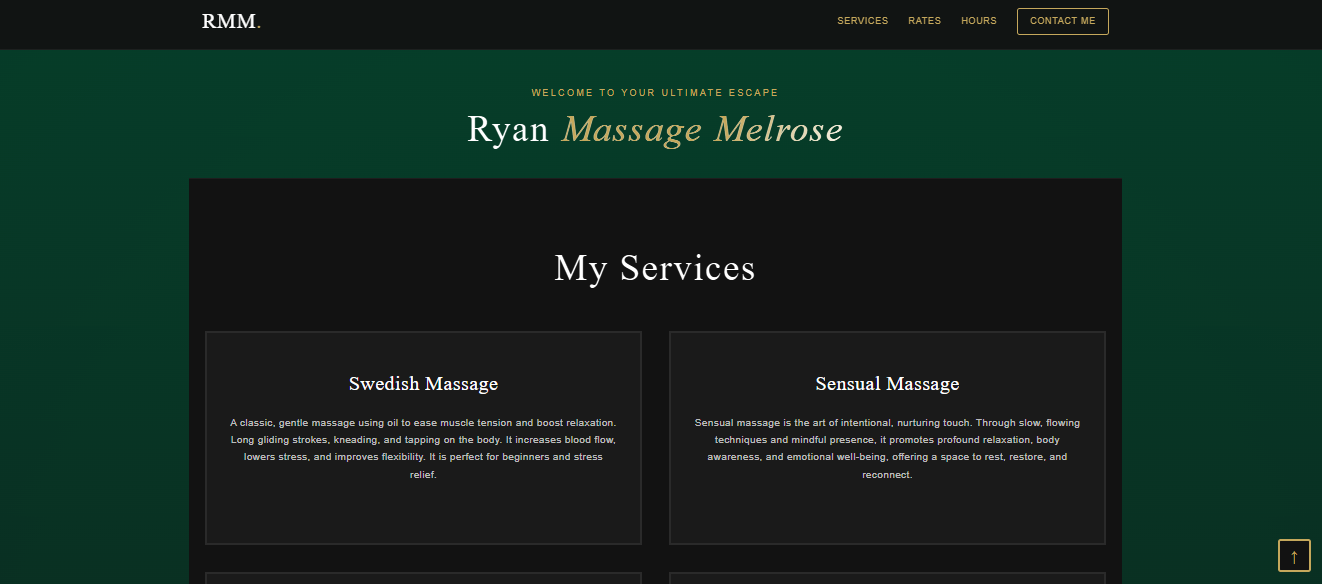
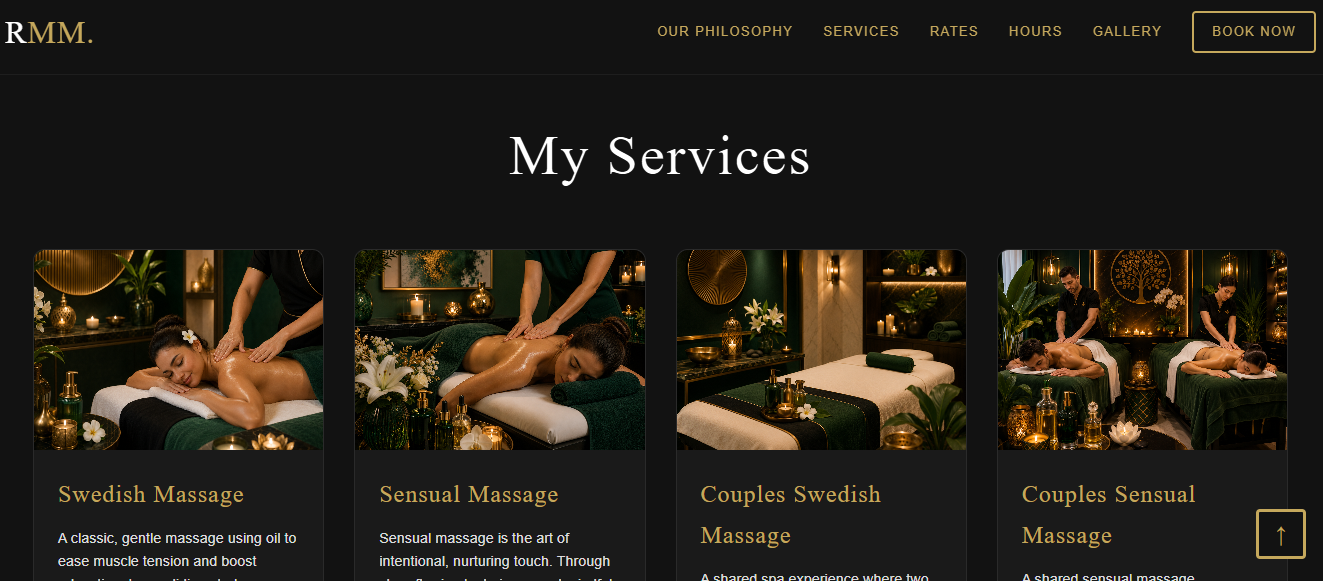
layout

diff --git a/index.html b/index.html
@@ -11,30 +11,141 @@
         * { box-sizing: border-box; -webkit-tap-highlight-color: transparent; }
         html { scroll-behavior: smooth; }
         
-        /* Mobile Specific Overrides to pass on top of external sheet links */
+         /* --- FIXED 3 COLUMNS x 2 ROWS GRID MATRIX --- */
+.pricing {
+    display: grid;
+    /* Forces exactly 3 equal-width columns on desktop screens */
+    grid-template-columns: repeat(3, 1fr); 
+    /* Explicitly defines exactly 2 rows of equal height */
+    grid-template-rows: repeat(2, 1fr);     
+    gap: 30px;
+    max-width: 1200px;
+    margin: 40px auto;
+    padding: 20px;
+    width: 100%;
+    box-sizing: border-box;
+}
+
+/* Ensure card sizing elements scale symmetrically in the matrix */
+.card {
+    width: 100% !important;
+    height: 100% !important;
+    display: flex;
+    flex-direction: column;
+    justify-content: space-between;
+    box-sizing: border-box;
+}
+
+/* --- MOBILE RESPONSIVE OVERRIDES --- */
+@media (max-width: 992px) {
+    .pricing {
+        /* Drops down to 2 columns on tablets/medium screens */
+        grid-template-columns: repeat(2, 1fr);
+        grid-template-rows: auto; /* Removes strict row limits so it can expand down */
+    }
+}
+
+@media (max-width: 768px) {
+    .pricing {
+        /* Collapses into a single vertical row column on small mobile viewports */
+        grid-template-columns: 1fr;
+        grid-template-rows: auto;
+        gap: 20px;
+    }
+}
+        /* Tiny custom scrollbar adjustments for Webkit engines (Chrome/Safari) */
+        .card ul::-webkit-scrollbar { width: 4px; }
+        .card ul::-webkit-scrollbar-thumb { background: rgba(0, 0, 0, 0.15); border-radius: 4px; }
+
+        .card .btn {
+            width: 100% !important;
+            padding: 10px 0 !important;    /* Compressed button spacing */
+            text-align: center;
+            font-size: 0.85rem !important;
+            margin-top: auto;              /* Clamps the CTA link cleanly to the base of the square card */
+            display: block;
+            text-decoration: none;
+            box-sizing: border-box;
+        }
+
+        /* Mobile Viewport Symmetrical Adjustments */
         @media (max-width: 768px) {
             .pricing {
-                display: flex;
-                flex-direction: column;
-                gap: 20px;
-                padding: 20px 15px;
+                display: grid !important; /* Overrides the previous vertical linear stack */
+                grid-template-columns: repeat(auto-fit, minmax(260px, 1fr)) !important;
+                gap: 16px !important;
             }
             .card {
-                width: 100% !important;
-                margin: 0 auto;
+                aspect-ratio: 1 / 1 !important; /* Keeps the cards square on phone screens */
             }
-            .hero h1 { font-size: 2.2rem; }
-            .hero h2 { font-size: 1.6rem; }
-            .contact-methods {
-                display: flex;
-                flex-direction: column;
-                gap: 12px;
-            }
-            .contact-row { width: 100% !important; }
-            .gallery-btn { width: 40px !important; height: 40px !important; }
-            .prev-btn { left: 5px !important; }
-            .next-btn { right: 5px !important; }
         }
+
+                /* --- CENTERED HEADING FOR PRICING MODULE --- */
+        .pricing-header-container {
+            text-align: center;         /* Centers text horizontally */
+            width: 100%;
+            max-width: 800px;
+            margin: 60px auto 20px auto; /* Adds generous top breathing room and frames spacing */
+            padding: 0 20px;
+            box-sizing: border-box;
+        }
+
+        .pricing-subtitle {
+            font-size: 0.85rem;
+            text-transform: uppercase;
+            letter-spacing: 2px;
+            color: blanchedalmond;             /* Matches your brand blue theme color variable */
+            font-weight: 600;
+            display: block;
+            margin-bottom: 8px;
+        }
+
+        .pricing-main-title {
+            font-size: clamp(2rem, 4vw, 2.8rem); /* Dynamically shrinks heading perfectly on phone viewports */
+            color: white;
+            font-weight: 800;
+            margin: 0 0 15px 0;
+            line-height: 1.2;
+        }
+
+        /* Premium minimal design separator line under heading title */
+        .title-divider-line {
+            width: 60px;
+            height: 4px;
+            background-color: #f7a000;  /* Matches your brand orange accent theme variable */
+            margin: 0 auto;             /* Centers the divider bar horizontally */
+            border-radius: 2px;
+        }
+
+/* --- LEGIBlLITY VISIBILITY HERO SYSTEM --- */
+.hero {
+    position: relative;
+    width: 100%;
+    
+    /* CHANGE THIS VALUE TO INCREASE HEIGHT LENGTH */
+    min-height: 100vh; /* Fills 100% of the user's screen height layout */
+    
+    display: flex;
+    flex-direction: column;
+    justify-content: center;
+    align-items: center;
+    text-align: center;
+    
+    /* Generous top padding keeps text safe under a fixed navbar */
+    padding: 160px 24px 80px 24px; 
+    box-sizing: border-box;
+
+    background: linear-gradient(
+        rgba(10, 10, 10, 0.75), 
+        rgba(10, 10, 10, 0.85)
+    ), url'hero.png'; 
+    
+    background-size: cover;       
+    background-position: center;   
+    background-repeat: no-repeat;  
+    border-bottom: 2px solid var(--gold);
+}
+
 
         /* Responsive Advertisement Modal Controls */
         .adv-modal {
@@ -115,8 +226,12 @@
     <h2>Price List</h2>
     <p>Professional Webpages and Websites Designed For Your Business</p>
 </header>
-
-<!-- ADDED THE CRITICAL OPENING PRICING ROW TAG HERE -->
+<br>
+<div class="pricing-header-container">
+    <h2 class="pricing-main-title">Choose Your Design Package</h2>
+    <div class="title-divider-line"></div>
+</div> 
+<!-- --- FIXED ROWS OF 3 GRID SYSTEM --- -->
 <section class="pricing">
 
     <!-- Card 1 -->
@@ -195,7 +310,7 @@
         <a href="#contact-target" class="btn">Get Started</a>
     </div>
 
-       <!-- Card 5 -->
+    <!-- Card 5 -->
     <div class="card">
         <div class="card-title">
             <i class="fa-solid fa-pencil"></i>
@@ -209,38 +324,32 @@
             <li>Change of Headings</li>
             <li>Change of Text</li>
             <li>Change of Images</li>
-           
         </ul>
         <a href="#contact-target" class="btn">Get Started</a>
     </div>
-    
-<!-- Payment Terms Section -->
-<section class="payment-terms">
-    <div class="terms-container">
-        <h3><i class="fa-solid fa-credit-card"></i> Payment Terms & Conditions</h3>
-        <div class="terms-grid">
-            <div class="term-item">
-                <i class="fa-solid fa-receipt"></i>
-                <p><strong>Deposit:</strong> 50% upfront payment is required before project commencement.</p>
-            </div>
-            <div class="term-item">
-                <i class="fa-solid fa-check-double"></i>
-                <p><strong>Balance:</strong> Final 50% balance is due immediately upon website completion and prior to launch.</p>
-            </div>
-            <div class="term-item">
-                <i class="fa-solid fa-clock"></i>
-                <p><strong>Turnaround:</strong> Estimated project turnaround times will be specified in your official project proposal.</p>
-                </div>
-                <div class="term-item">
-                <i class="fa-solid fa-refresh"></i>
-                <p><strong>Annual Domain and Hosting Renewals:</strong> Billed separately from the second year - R50 p.a.</p>
-            </div>
-            </div>
+
+    <!-- Card 6: PAYMENT TERMS EMBEDDED WITH MATCHING CARD STYLE -->
+    <div class="card terms-card">
+        <div class="card-title">
+            <i class="fa-solid fa-credit-card"></i>
+            <h3>Payment Terms</h3>
         </div>
+        <div class="price" style="font-size: 1.1rem; color: #555;">Terms & Conditions</div>
+        <ul>
+            <li>50% Deposit required upfront to start.</li>
+            <li>Remaining balance due upon final approval.</li>
+            <li>Monthly hosting packages billed via debit order.</li>
+            <li>Turnaround times depend on layout complexity.</li>
+            <li>All asset copies must be supplied by the client.</li>
+        </ul>
+        <a href="#contact-target" class="btn btn-terms">View Details</a>
     </div>
+        <!-- Insert right beneath the closing div of your last card (Card 6) -->
+    </div> 
 </section>
 
-</section> <!-- This tag now closes the open section properly -->
+
+</section>
 
 <section class="gallery-section">
   <h2 class="gallery-title">Our Recent Projects</h2>
@@ -272,22 +381,22 @@
         <!-- Page 4 -->
         <div class="gallery-slide">
           <img src="images/project4.png" alt="Project 4">
-          <div class="slide-caption"><h3>White Lily 4</h3></div>
+          <div class="slide-caption"><h3>Massage by Ash</h3></div>
         </div>
         <!-- Page 5 -->
         <div class="gallery-slide">
-          <img src="images/project5.jpg" alt="Project 5">
-          <div class="slide-caption"><h3>Massage by Ash</h3></div>
+          <img src="images/project5.png" alt="Project 5">
+          <div class="slide-caption"><h3>Massage by Ash 2</h3></div>
         </div>
         <!-- Page 6 -->
         <div class="gallery-slide">
           <img src="images/project6.jpg" alt="Project 6">
-          <div class="slide-caption"><h3>Massage by Ash 2</h3></div>
+          <div class="slide-caption"><h3>Massage by Ash 3</h3></div>
         </div>
         <!-- Page 7 -->
         <div class="gallery-slide">
           <img src="images/7.jpg" alt="Project 7">
-          <div class="slide-caption"><h3>Massage by Ash 3</h3></div>
+          <div class="slide-caption"><h3>Massage by Ash 4</h3></div>
         </div> 
         <!-- Page 8 -->
         <div class="gallery-slide">
@@ -297,12 +406,12 @@
         <!-- Page 9 -->
         <div class="gallery-slide">
           <img src="images/9.png" alt="Project 9">
-          <div class="slide-caption"><h3>CampbellWeb DBC</h3></div>
+          <div class="slide-caption"><h3>Ryan Melrose Massage</h3></div>
         </div>
         <!-- Page 10 -->
         <div class="gallery-slide">
           <img src="images/10.png" alt="Project 10">
-          <div class="slide-caption"><h3>Ryan Melrose Massage</h3></div>
+          <div class="slide-caption"><h3>Ryan Melrose Massage 2</h3></div>
         </div>
       </div>
     </div>

diff --git a/style.css b/style.css
@@ -588,7 +588,7 @@ ar-gradient(135deg, #0b0f19 0%, #1e293b 100%);
 /* Gallery Container Layout */
 .gallery-section {
   padding: 60px 20px;
-  background-color: #071b46;
+  background-color: #051333;
   text-align: center;
 }
 .gallery-title {